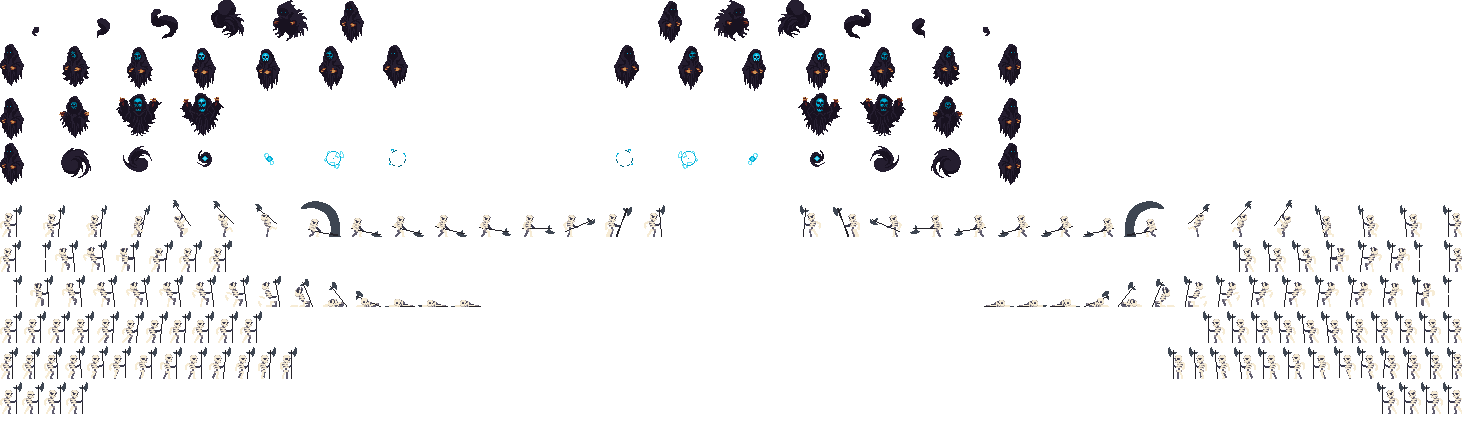
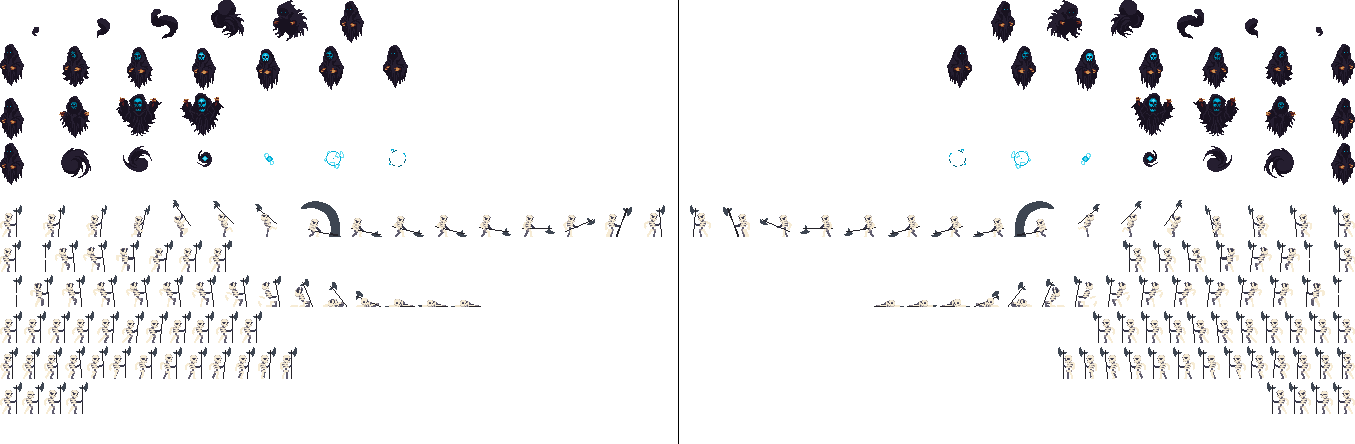
adding left animations

diff --git a/Motor2D/EntitySkeleton.cpp b/Motor2D/EntitySkeleton.cpp
@@ -28,6 +28,20 @@ EntitySkeleton::EntitySkeleton(int x, int y) : Entity(x, y)
 	idle.speed = 0.2f;
 	idle.loop = true;
 
+	idleLeft.PushBack({ 1333,311,22,32 });
+	idleLeft.PushBack({ 1309,311,22,32 });
+	idleLeft.PushBack({ 1285,311,22,32 });
+	idleLeft.PushBack({ 1261,311,22,32 });
+	idleLeft.PushBack({ 1236,311,22,32 });
+	idleLeft.PushBack({ 1211,311,22,32 });
+	idleLeft.PushBack({ 1187,311,22,32 });
+	idleLeft.PushBack({ 1164,311,22,32 });
+	idleLeft.PushBack({ 1141,311,22,32 });
+	idleLeft.PushBack({ 1117,311,22,32 });
+	idleLeft.PushBack({ 1093,311,22,32 });
+	idleLeft.speed = 0.2f;
+	idleLeft.loop = true;
+
 	chasing.PushBack({0,347,18,32});
 	chasing.PushBack({ 22,347,18,32 });
 	chasing.PushBack({ 44,347,18,32 });
@@ -44,15 +58,58 @@ EntitySkeleton::EntitySkeleton(int x, int y) : Entity(x, y)
 	chasing.speed = 0.4f;
 	chasing.loop = true;
 
-	death.PushBack({ 0,143,24,42 });
-	death.PushBack({ 61,148,30,30 });
-	death.PushBack({ 123,146,29,26 });
-	death.PushBack({ 197,150,15,17 });
-	death.PushBack({ 264,153,10,12 });
-	death.PushBack({ 324,151,20,18 });
-	death.PushBack({ 389,149,17,18 });
+	chasingLeft.PushBack({ 1337,347,18,32 });
+	chasingLeft.PushBack({ 1315,347,18,32 });
+	chasingLeft.PushBack({ 1293,347,18,32 });
+	chasingLeft.PushBack({ 1270,346,20,33 });
+	chasingLeft.PushBack({ 1247,346,21,33 });
+	chasingLeft.PushBack({ 1224,346,22,33 });
+	chasingLeft.PushBack({ 1198,347,22,32 });
+	chasingLeft.PushBack({ 1173,347,22,32 });
+	chasingLeft.PushBack({ 1148,347,22,32 });
+	chasingLeft.PushBack({ 1124,347,22,32 });
+	chasingLeft.PushBack({ 1100,347,20,32 });
+	chasingLeft.PushBack({ 1079,347,18,32 });
+	chasingLeft.PushBack({ 1058,347,17,32 });
+	chasingLeft.speed = 0.4f;
+	chasingLeft.loop = true;
+
+	death.PushBack({ 0,275,22,32 });
+	death.PushBack({ 30,275,23,32 });
+	death.PushBack({ 62,275,23,32 });
+	death.PushBack({ 93,275,24,32 });
+	death.PushBack({ 126,275,24,32 });
+	death.PushBack({ 159,275,24,32 });
+	death.PushBack({ 192,275,24,32 });
+	death.PushBack({ 225,275,24,32 });
+	death.PushBack({ 258,276,23,32 });
+	death.PushBack({ 290,279,23,32 });
+	death.PushBack({ 323,282,24,32 });
+	death.PushBack({ 356,291,25,32 });
+	death.PushBack({ 385,299,30,32 });
+	death.PushBack({ 418,300,30,32 });
+	death.PushBack({ 451,300,30,32 });
 	death.speed = 0.4f;
 	death.loop = true;
+	animation = &idle;
+
+	deathLeft.PushBack({ 1333,275,22,32 });
+	deathLeft.PushBack({ 1302,275,23,32 });
+	deathLeft.PushBack({ 1270,275,23,32 });
+	deathLeft.PushBack({ 1238,275,24,32 });
+	deathLeft.PushBack({ 1205,275,24,32 });
+	deathLeft.PushBack({ 1172,275,24,32 });
+	deathLeft.PushBack({ 1139,275,24,32 });
+	deathLeft.PushBack({ 1106,275,24,32 });
+	deathLeft.PushBack({ 1074,276,23,32 });
+	deathLeft.PushBack({ 1042,279,23,32 });
+	deathLeft.PushBack({ 1008,282,24,32 });
+	deathLeft.PushBack({ 974,291,25,32 });
+	deathLeft.PushBack({ 940,299,30,32 });
+	deathLeft.PushBack({ 907,300,30,32 });
+	deathLeft.PushBack({ 874,300,30,32 });
+	deathLeft.speed = 0.4f;
+	deathLeft.loop = true;
 	animation = &idle;
 
 	collider = App->collision->AddCollider({ 0,0,22,32 }, COLLIDER_TYPE::COLLIDER_ENEMY, (j1Module*)App->entities);

diff --git a/Motor2D/EntityGhost.cpp b/Motor2D/EntityGhost.cpp
@@ -23,12 +23,28 @@ EntityGhost::EntityGhost(int x, int y) : Entity(x, y)
 	idle.PushBack({ 383,45,25,43 });
 	idle.speed = 0.2f;
 	idle.loop = true;
+
+	idleLeft.PushBack({ 1331,44,24,42 });
+	idleLeft.PushBack({ 1265,46,28,41 });
+	idleLeft.PushBack({ 1202,47,26,42 });
+	idleLeft.PushBack({ 1139,48,24,42 });
+	idleLeft.PushBack({ 1075,49,24,42 });
+	idleLeft.PushBack({ 1011,46,25,44 });
+	idleLeft.PushBack({ 947,45,25,43 });
+	idleLeft.speed = 0.2f;
+	idleLeft.loop = true;
 	
 	chasing.PushBack({59,96,31,42});
 	chasing.PushBack({116,94,46,42});
 	chasing.PushBack({180,93,44,43});
 	chasing.speed = 0.2f;
 	chasing.loop = false;
+
+	chasingLeft.PushBack({ 1331,96,31,42 });
+	chasingLeft.PushBack({ 1265,94,46,42 });
+	chasingLeft.PushBack({ 180,93,44,43 });
+	chasingLeft.speed = 0.2f;
+	chasingLeft.loop = false;
 
 	death.PushBack({0,143,24,42});
 	death.PushBack({61,148,30,30 });
@@ -39,6 +55,17 @@ EntityGhost::EntityGhost(int x, int y) : Entity(x, y)
 	death.PushBack({ 389,149,17,18 });
 	death.speed = 0.4f;
 	death.loop = true;
+	animation = &idle;
+
+	deathLeft.PushBack({ 0,143,24,42 });
+	deathLeft.PushBack({ 61,148,30,30 });
+	deathLeft.PushBack({ 123,146,29,26 });
+	deathLeft.PushBack({ 197,150,15,17 });
+	deathLeft.PushBack({ 264,153,10,12 });
+	deathLeft.PushBack({ 324,151,20,18 });
+	deathLeft.PushBack({ 389,149,17,18 });
+	deathLeft.speed = 0.4f;
+	deathLeft.loop = true;
 	animation = &idle;
 
 	collider = App->collision->AddCollider({ 0,0,26,21 }, COLLIDER_TYPE::COLLIDER_ENEMY, (j1Module*)App->entities);

diff --git a/Motor2D/EntitySkeleton.h b/Motor2D/EntitySkeleton.h
@@ -9,13 +9,17 @@ class EntitySkeleton : public Entity
 
 private:
 	Animation idle;
+	Animation idleLeft;
 	Animation death;
+	Animation deathLeft;
 	Animation chasing;
+	Animation chasingLeft;
+	bool left;
 	iPoint skeletonPosition;
 	iPoint playerPosition;
 	iPoint chase;
 	iPoint canwalk;
-	bool left;
+
 public:
 
 	EntitySkeleton(int x, int y);

diff --git a/Motor2D/EntityGhost.h b/Motor2D/EntityGhost.h
@@ -11,6 +11,9 @@ private:
 	Animation idle;
 	Animation death;
 	Animation chasing;
+	Animation idleLeft;
+	Animation deathLeft;
+	Animation chasingLeft;	
 	iPoint ghostPosition;
 	iPoint playerPosition;
 	iPoint chase;
